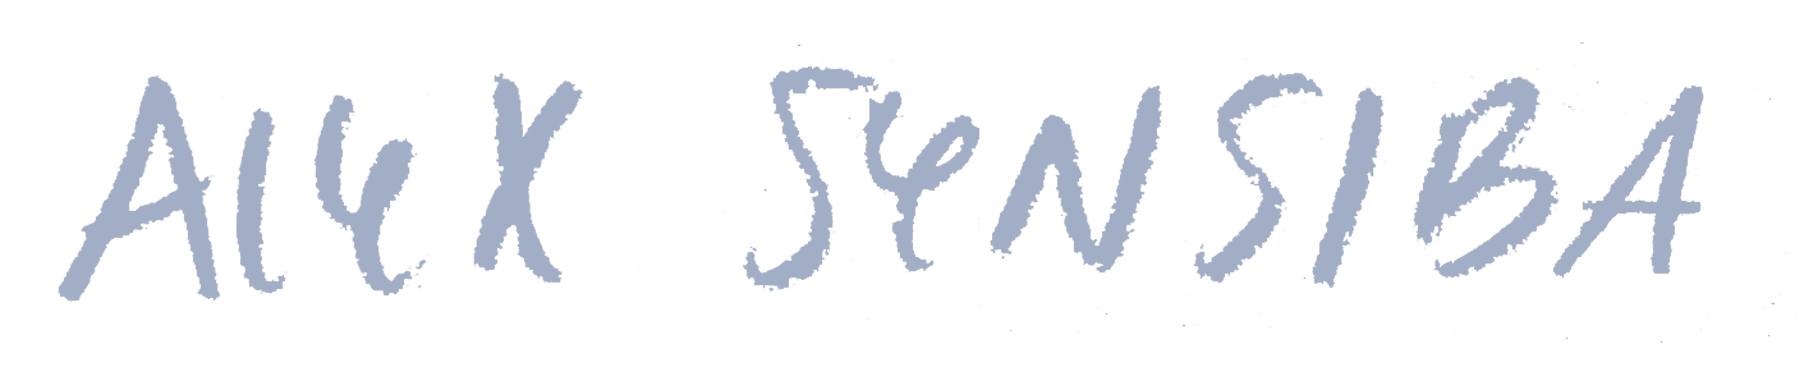
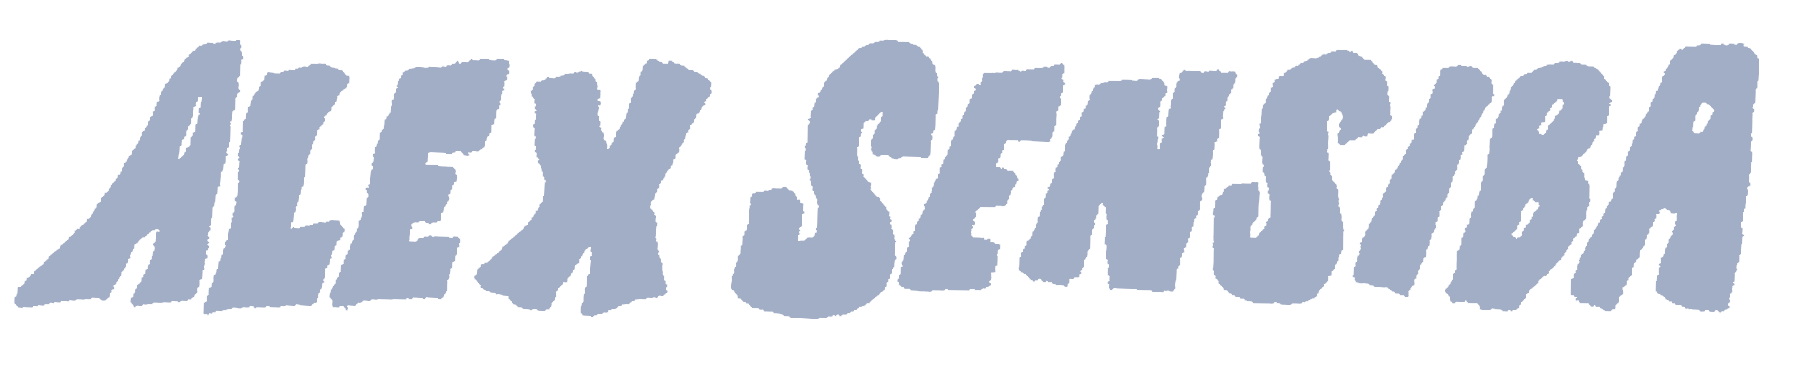
name change

diff --git a/docs/scripts/corner.js/main.js b/docs/scripts/corner.js/main.js
@@ -2,7 +2,7 @@ let mainLogo = `
 
 <div class="name-logo">
     <div>
-    <img class="img-corner" src="https://bl6pap003files.storage.live.com/y4mkn6fprlWc0EBAzmYkUSefIh9EI-EjI1AAoqn_x--SywjAhxwHFWe00FBSCSP1kDUIYIySLdKBywE9T6ALCzjUceR_zpiVh6JJZRKtKM2eMR7eCVaEX8Ud4jcxlItdiKevgdNOSpX_nJ7T5nbejm1foCriZR-cFAo4NM33Z0-ABEVnBXaCAYRFOaYzHcR3tVC?width=1108&height=645&cropmode=none" alt="">
+    <img class="img-corner" src="/docs/images/name-02.png" alt="">
   </div>
 </div>
 
@@ -10,3 +10,11 @@ let mainLogo = `
 `
 
 $('.corner').append(mainLogo);
+
+
+
+
+
+
+
+/*https://bl6pap003files.storage.live.com/y4mkn6fprlWc0EBAzmYkUSefIh9EI-EjI1AAoqn_x--SywjAhxwHFWe00FBSCSP1kDUIYIySLdKBywE9T6ALCzjUceR_zpiVh6JJZRKtKM2eMR7eCVaEX8Ud4jcxlItdiKevgdNOSpX_nJ7T5nbejm1foCriZR-cFAo4NM33Z0-ABEVnBXaCAYRFOaYzHcR3tVC?width=1108&height=645&cropmode=none*/
